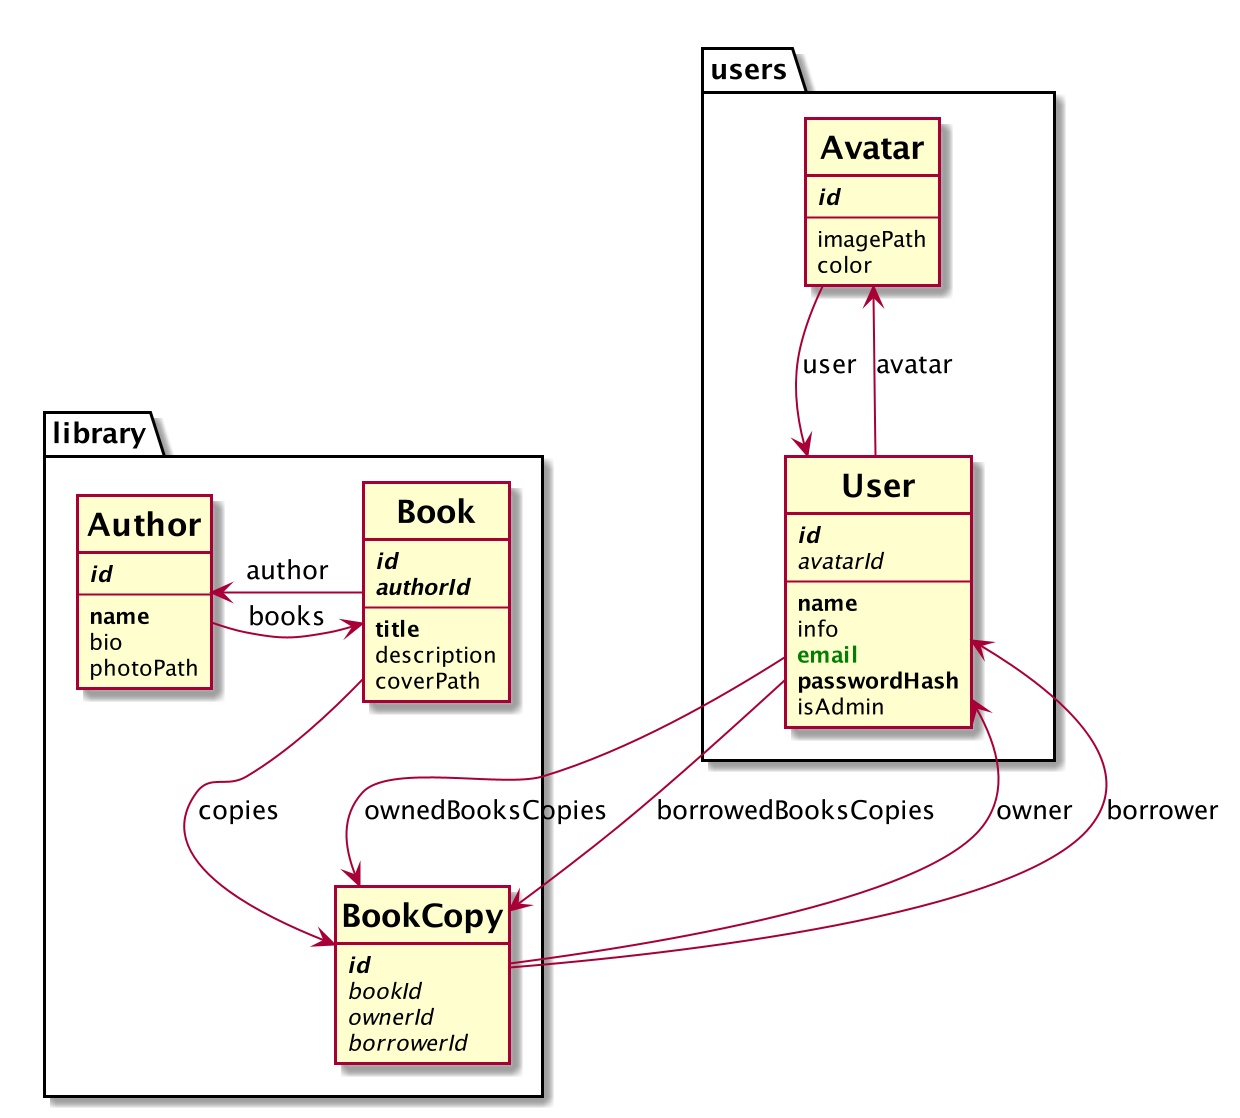
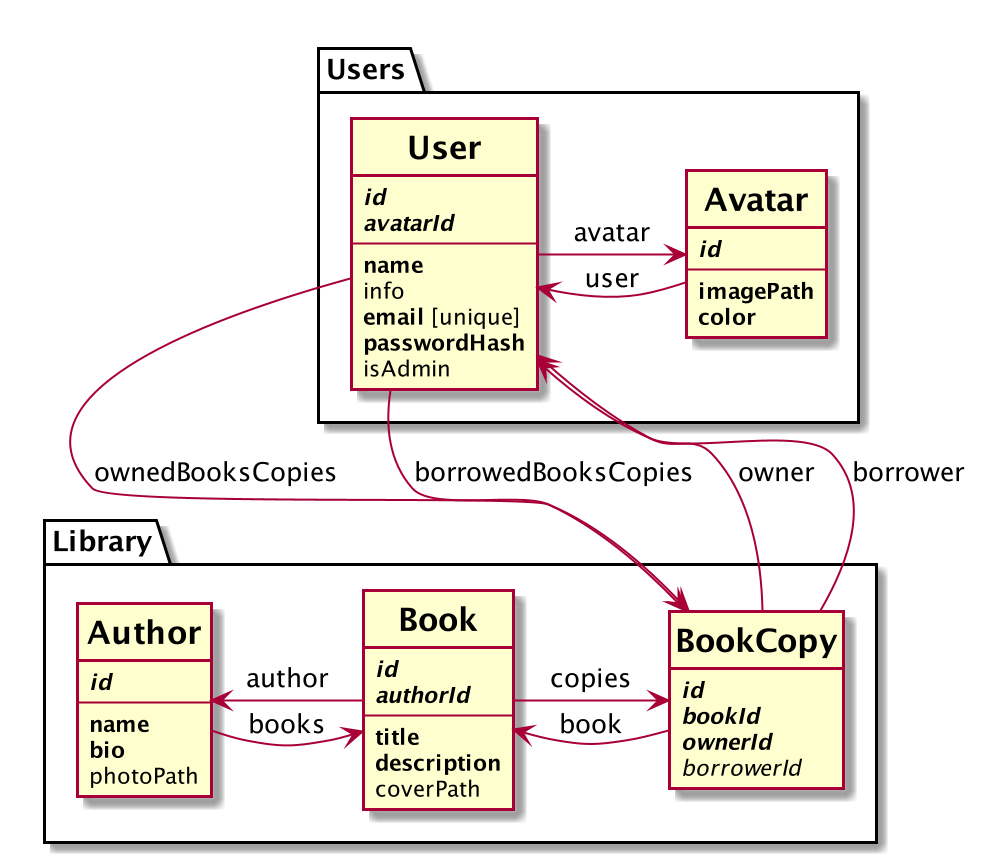
Chore: Better db diagram, improve unit test example for login resolver

diff --git a/packages/server/src/graphql/authentication/resolvers.test.ts b/packages/server/src/graphql/authentication/resolvers.test.ts
@@ -1,5 +1,6 @@
 import httpMocks from "node-mocks-http";
 
+import { AUTH_COOKIE_NAME } from "../../config";
 import { UserRepository } from "../../database/repositories/UserRepository";
 import {
   MutationLoginArgs,
@@ -24,11 +25,13 @@ describe("login authentication resolver", () => {
       getCustomRepository: jest.fn().mockReturnValue(userRepository)
     };
 
+    const res = httpMocks.createResponse();
+
     // When
     const result = await login(
       undefined,
       { input: { email: "example@email.com", password: "password" } },
-      { connection, res: httpMocks.createResponse() }
+      { connection, res }
     );
 
     // Then
@@ -38,6 +41,12 @@ describe("login authentication resolver", () => {
       "password"
     );
 
+    expect(res.cookies).toMatchObject({
+      [AUTH_COOKIE_NAME]: {
+        value: expect.any(String)
+      }
+    });
+
     expect(result).toMatchObject({
       success: true,
       message: "Login success!",
@@ -45,7 +54,7 @@ describe("login authentication resolver", () => {
     });
   });
 
-  test("on error error", async () => {
+  test("on login error", async () => {
     // Given
     const user = undefined;
     const connection = {
